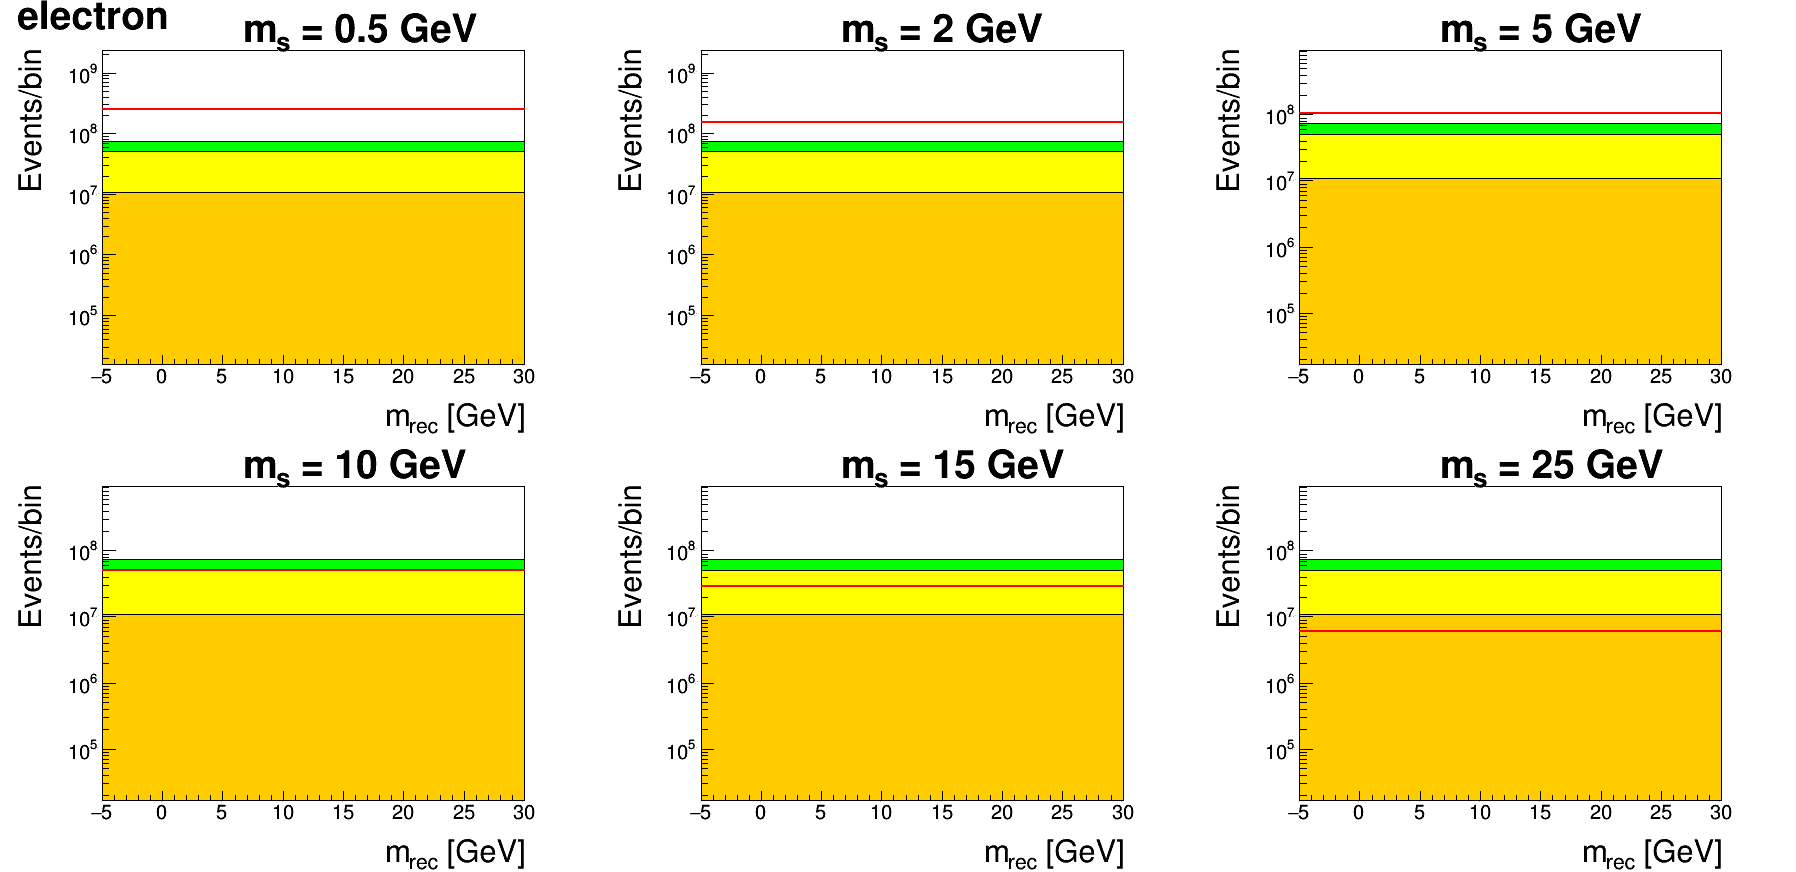
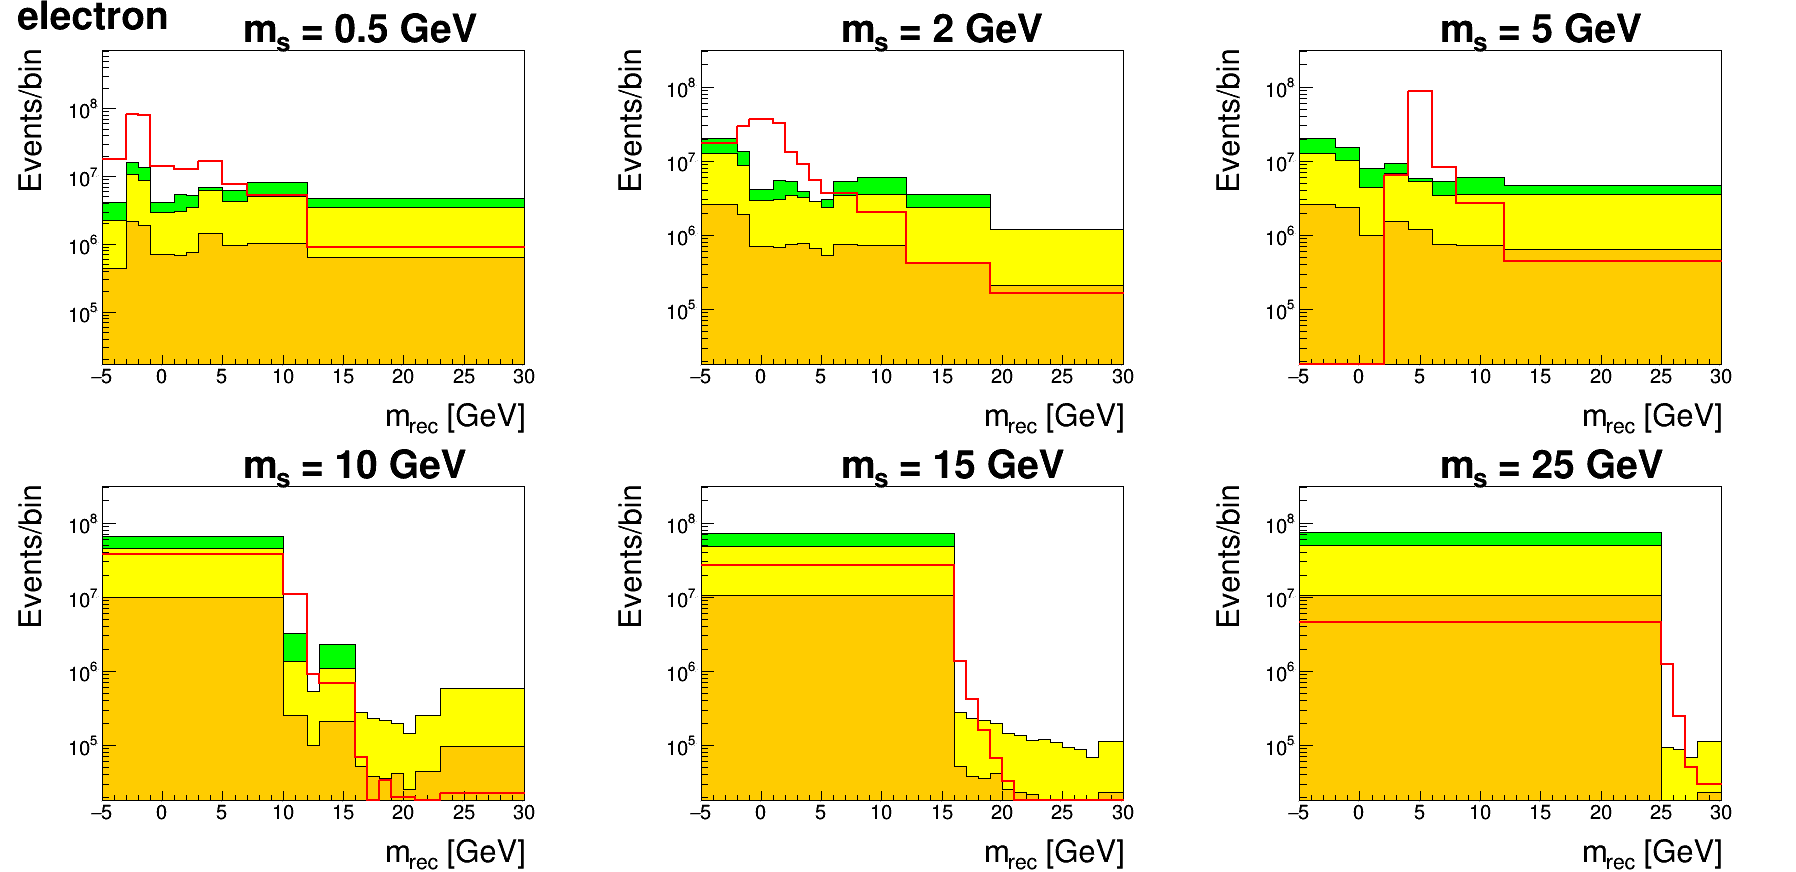
recoil mass plots

diff --git a/scripts/cutflow_in_dev.py b/scripts/cutflow_in_dev.py
@@ -160,7 +160,7 @@ ctf_plot_param['m_inv'] = {
 ctf_plot_param['mrec'] = {
 'xmin':-5, 
 'xmax':30,
-'nbins':1, 
+'nbins':35, 
 'ymin':50000, 
 'ymax':100,
 'xvar':'m_rec',
@@ -666,8 +666,8 @@ for fs_chn in channels:
 			b.rebin() 
 			binning[fs_chn][pd_chn] = array('d',b.getBinArray()) #enforcing type 
 		elif bin_option == "manual":
-			#binning['muon'] = OrderedDict()
-			#'''
+			binning['muon'] = OrderedDict()
+			'''
 			x_cur = ctf_plot_param['mrec']['xmin']
 			binning[fs_chn][pd_chn] = array('d')
 			while x_cur <= ctf_plot_param['mrec']['xmax']:
@@ -698,7 +698,7 @@ for fs_chn in channels:
 #			binning['muon']['25'] = array('d', [-5,25,26,27,28,30.0])
 #			binning[fs_chn]['25'] = array('d', [-5,-4.5,-4,-3.5,-3,-2.5,-2,-1.5,-1,-0.5,0,0.5,1,1.5,2,2.5,3,3.5,4,4.5,5,5.5,6,6.5,7,7.5,8,9, 10,12, 15, 20, 30.0])
 			#binning[fs_chn][pd_chn] = array('d',binning[fs_chn][pd_chn])
-			'''
+			#'''
 print binning
 
 bkg_mrec_hists_rebin = OrderedDict()
